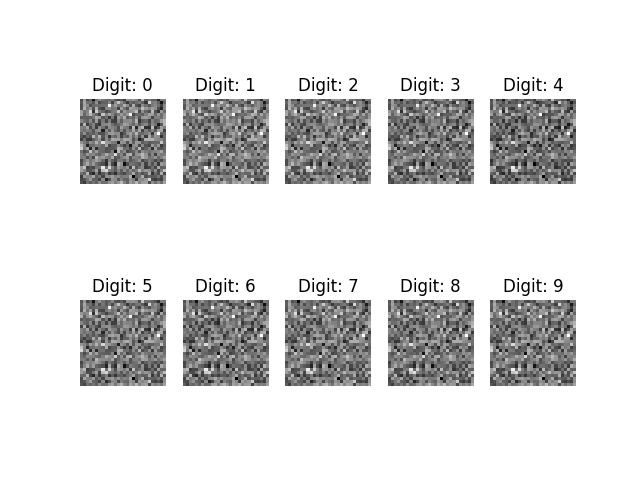
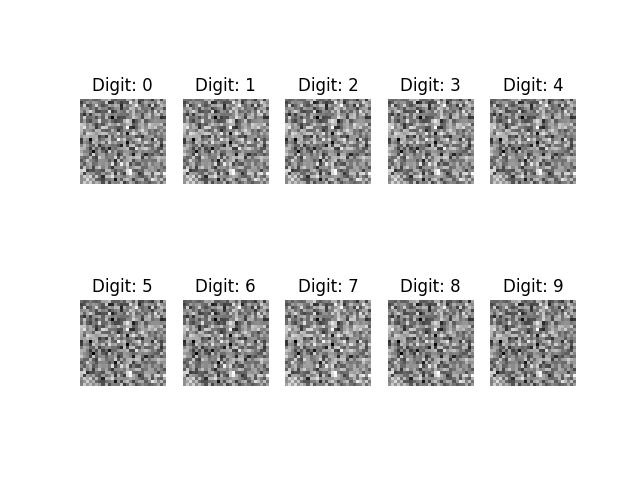
lol FGSM.py +compat. issues solved +tnx  DD

Changed region(s): [[0.125, 0.1875, 0.9062, 0.4062], [0.125, 0.625, 0.9062, 0.8125]]

diff --git a/De-Pois-Code/main.py b/De-Pois-Code/main.py
@@ -4,11 +4,12 @@ Created on Wed Apr 22 21:07:40 2020
 
 @author: zxx
 """
+# %%
 import os
 import matplotlib.pyplot as plt
 import time
 import numpy as np
-import sklearn
+from sklearn import metrics
 
 os.makedirs('images', exist_ok=True)
 os.makedirs('data/weights', exist_ok=True)
@@ -19,6 +20,9 @@ def load_data():
     x_train, y_train = f['x_train'], f['y_train']
     x_test, y_test = f['x_test'], f['y_test']
     f.close()
+    x_train = x_train.reshape(x_train.shape[0], 28, 28, 1)
+    x_test = x_test.reshape(x_test.shape[0], 28, 28, 1)
+
     return (x_train, y_train), (x_test, y_test)
 
 
@@ -44,7 +48,7 @@ def TrueAndGeneratorData(know_rate, epochs):
     Min = np.min(G_data)
     G_data = (G_data - Min) / (Max - Min)
     G_data = G_data * (1 * (G_data > 0.3))
-    xx = np.concatenate((train_data/255,np.squeeze(G_data)), axis = 0)
+    xx = np.concatenate((train_data/255,G_data), axis = 0)
     yy = np.concatenate((train_label,np.squeeze(G_label)), axis =0) # 0 ~ 1
     np.save("data/saved_TrueAndGeneratorData.npy", xx)
     np.save("data/saved_TrueAndGeneratorLabel.npy", yy)
@@ -54,8 +58,11 @@ def TrueAndGeneratorData(know_rate, epochs):
 def poi_data(poison_rate):
         
     poison_number = int(poison_rate * 50000)
-    poisoned_x_data = np.load("data/p_data_%d.npy"%(poison_number))
-    poisoned_y_data = np.load("data/p_label_%d.npy"%(poison_number))
+    data = np.load("dataset/mnist.npz")
+    print(list(data.keys()))
+    poisoned_x_data = data["x_test"]
+    poisoned_y_data = data["y_test"]
+    print(poisoned_x_data.shape, poisoned_y_data.shape)
     poisoned_x_data = poisoned_x_data * 255
     poisoned_x_data = poisoned_x_data.reshape(poisoned_x_data.shape[0],28,28, 1)
     poisoned_x_data = (poisoned_x_data.astype(np.float32) - 127.5) / 127.5
@@ -73,20 +80,20 @@ def count_score(validity, poison_number):
     label_poisoned_fake = np.ones(validity.shape[0])
     label_poisoned_fake[f_poisoned_data] = 0
     
-    P = sklearn.metrics.precision_score(label_poisoned_real,label_poisoned_fake.astype(float),average='binary')
-    R = sklearn.metrics.recall_score(label_poisoned_real,label_poisoned_fake.astype(float),average='binary')
+    P = metrics.precision_score(label_poisoned_real,label_poisoned_fake.astype(float),average='binary')
+    R = metrics.recall_score(label_poisoned_real,label_poisoned_fake.astype(float),average='binary')
     F1 = (2 * P * R) / (P + R)
-    acc = sklearn.metrics.accuracy_score(label_poisoned_real,label_poisoned_fake.astype(float))
+    acc = metrics.accuracy_score(label_poisoned_real,label_poisoned_fake.astype(float))
     
     return F1, P, R, acc
 
 
 
-def modle_defense(poi_rate,  epochs):
+def model_defense(poi_rate,  epochs):
     
     (X_train, y_train), (_, _) = load_data()
     X_train = (X_train.astype(np.float32) - 127.5) / 127.5
-    X_train = np.expand_dims(X_train, axis=1)
+    #X_train = np.expand_dims(X_train, axis=1)
     
     poison_number, poisoned_x_data, poisoned_y_data = poi_data(poi_rate)
     x_poisoned_raw_test = np.concatenate((X_train[0:50000],poisoned_x_data))   
@@ -131,4 +138,4 @@ if __name__ == '__main__':
 
     TrueAndGeneratorData(know_rate, 200)
 
-    modle_defense(poi_rate, 200)
+    model_defense(poi_rate, 200)

diff --git a/De-Pois-Code/mimic_model_construction.py b/De-Pois-Code/mimic_model_construction.py
@@ -10,12 +10,13 @@ from keras.layers.merge import _Merge
 from keras.layers import Input, Dense, Reshape, Flatten, Dropout, multiply
 from keras.layers import BatchNormalization, Activation, ZeroPadding2D, Embedding
 from keras.layers.advanced_activations import LeakyReLU
-from keras.layers.convolutional import UpSampling2D, Conv2D
+#from keras.layers.convolutional import UpSampling2D, Conv2D
 from keras.models import Sequential, Model, load_model
-from keras.optimizers import RMSprop
-from keras.optimizers import Adam
+from tensorflow.keras.optimizers import RMSprop
+#from keras.optimizers import Adam
 from functools import partial
-
+from tensorflow.python.framework.ops import disable_eager_execution
+#disable_eager_execution()
 import keras.backend as K
 import os
 import matplotlib.pyplot as plt
@@ -40,7 +41,7 @@ class CWGANGP():
         self.img_cols = 28
         self.channels = 1
         self.nclasses = 10
-        self.img_shape = (self.channels,self.img_rows, self.img_cols )
+        self.img_shape = (self.img_rows, self.img_cols, self.channels)
         self.latent_dim = 100
         self.losslog = []
         self.epochs = epochs
@@ -95,6 +96,8 @@ class CWGANGP():
                                         partial_gp_loss],
                                         optimizer=optimizer,
                                         loss_weights=[1, 1, 10])
+        print("CRITIC MODEL SUMMARY BROOOOOOOO")
+        self.critic_model.summary()
         #-------------------------------
         # Construct Computational Graph
         #         for Generator
@@ -204,7 +207,7 @@ class CWGANGP():
 
         # Rescale -1 to 1
         X_train = (X_train.astype(np.float32) - 0.5) / 0.5
-        X_train = np.expand_dims(X_train, axis=1)
+        #X_train = np.expand_dims(X_train, axis=1)
 
         # Adversarial ground truths
         valid = -np.ones((self.batch_size, 1))
@@ -279,6 +282,7 @@ class CWGANGP():
                 axs[i,j].imshow(gen_imgs[cnt, 0,:,:], cmap='gray')
                 axs[i,j].axis('off')
                 cnt += 1
+        os.makedirs('images_cwgan_gp', exist_ok=True)
         fig.savefig("images_cwgan_gp/mnist_%d.png" % (epoch))
         plt.close()
         

diff --git a/De-Pois-Code/FGSM.py b/De-Pois-Code/FGSM.py
@@ -1,0 +1,59 @@
+# %%
+#def loss_object(labels, validity):
+from keras.backend import sign
+import tensorflow as tf
+from mimic_model_construction import CWGANGP
+from main import load_data
+import matplotlib.pyplot as plt
+import numpy as np
+batch_size = 32
+sample_interval = 100
+epochs = 200
+
+
+
+(x_train, y_train), (x_test, y_test) = load_data()
+
+wgan = CWGANGP(epochs, batch_size, sample_interval)
+wgan.critic.trainable = True
+#wgan.critic.load_weights('data/weights/discriminator_weights')
+
+def create_adversarial_pattern( img, label):
+  img = tf.cast(img, dtype=tf.float32)
+  label = tf.cast(label, dtype=tf.float32)
+
+  with tf.GradientTape() as tape:
+    tape.watch(img)
+    #tape.watch(x)
+    prediction = wgan.critic([img, label])
+    loss = wgan.wasserstein_loss(label, prediction)
+    #loss = x*x
+    #loss = tf.convert_to_tensor(5, dtype=tf.float32)
+    
+    # Get the gradients of the loss w.r.t to the input image.
+  gradient = tape.gradient(loss, img)
+      # Get the sign of the gradients to create the perturbation
+  signed_grad = tf.sign(gradient)
+
+  return signed_grad.numpy()
+
+epsilons = [0, 0.01, 0.1, 0.15]
+adv_imgs_dict = {eps: [] for eps in epsilons}
+# load dataset
+
+for img, label in zip(x_test, y_test):
+  img = np.expand_dims(img, axis=0)
+  label = np.expand_dims(label, axis=0)
+
+  perturbations = create_adversarial_pattern(img, label)
+  for eps in epsilons:
+    adv_x = img + perturbations*eps
+    print(type(adv_x), type(img), type(perturbations))
+    #adv_x = tf.clip_by_value(adv_x, -1, 1)
+    adv_x = np.squeeze(np.clip(adv_x, -1, 1))
+    # adv_img_array = tf.make_ndarray(adv_x)
+    adv_imgs_dict[eps].append((adv_x, label))
+  plt.figure()
+  plt.imshow(adv_x*0.5+0.5)
+  plt.title('noise')
+  plt.show()
